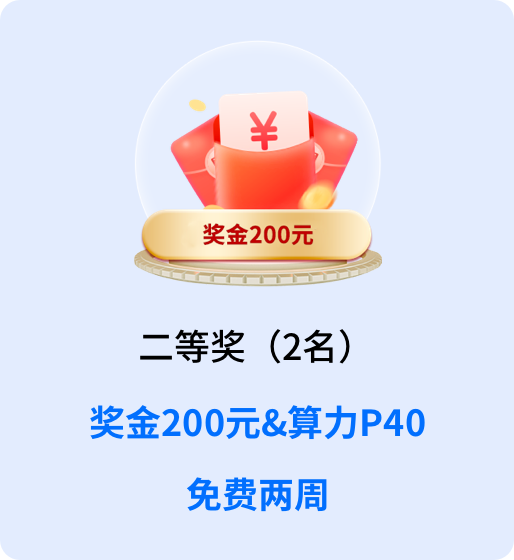
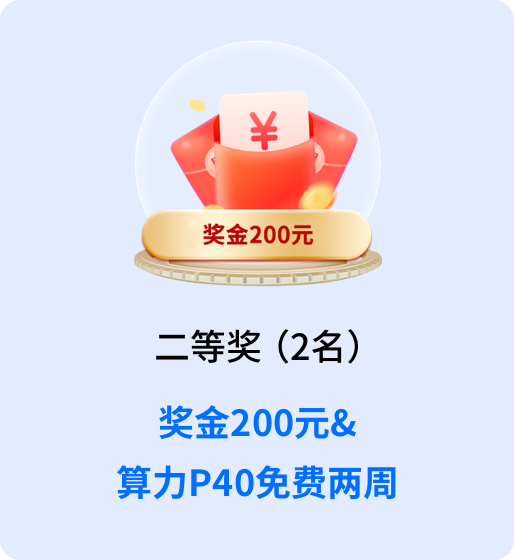
✨ feat: submit code

diff --git a/src/App.vue b/src/App.vue
@@ -122,8 +122,7 @@ const previewVisible = ref(false);
           <div class="introduce-title-mobile sm:block md:hidden">活动介绍</div>
           <div class="introduce-content">
             <div class="introduce-content-paragraph">
-              InsCode是一个集成了在线IDE、在线AI编程、在线大模型训练以及SD
-              模型使用的综合代码开发平台。不论你是初级软件工程师，还是AI大模型爱好者，InsCode都能帮助你快速编写代码，运行项目。甚至在这里你还可以一键购买算力，训练大模型，开发自己的AI应用程序。
+              InsCode是一个集成了在线IDE、在线AI编程、在线算力租赁、在线项目部署以及在线SD 模型使用的综合代码开发平台。不论你是初级软件工程师，还是AI大模型爱好者，InsCode都能帮助你快速编写代码，运行项目。甚至在这里你还可以一键购买算力，训练大模型，开发自己的AI应用程序。
             </div>
             <div class="introduce-content-paragraph">
               现我们真诚地邀请您来参加InsCode试用评测活动，本次试用测评活动主要分为四期，每一期都有丰厚的奖品等你来拿～
@@ -142,7 +141,7 @@ const previewVisible = ref(false);
               <div class="arrange-content-first-title sm:hidden md:flex">
                 <div class="arrange-content-first-title-item">第一期</div>
                 <div class="arrange-content-first-title-item">
-                  在线试用stable diffusion 模型生成优质人物好图
+                  在线试用Stable Diffusion 模型生成优质人物好图
                 </div>
                 <div class="arrange-content-first-title-item">
                   2023-07-03 开始
@@ -150,7 +149,7 @@ const previewVisible = ref(false);
                 <div class="arrange-content-first-title-item">周期14天</div>
               </div>
               <div class="arrange-content-first-title sm:block md:hidden" style="font-size: 14px;padding:10px">
-                 <div>第一期：在线试用 stable diffusion 模型生成优质人物好图</div>
+                 <div>第一期：在线试用 Stable Diffusion 模型生成优质人物好图</div>
                  <div><span style="margin-right:10px">2023-07-03 开始</span><span>周期25天</span></div>
               </div>
               <div
@@ -229,8 +228,8 @@ const previewVisible = ref(false);
               </div>
             </div>
             <div>
-              <div>注：1. 算力资源发放会在评奖后立即开启，不可暂停或累计，获奖的小伙伴请及时到<a class="blue" href="https://inscode.csdn.net/templates">算力页</a>畅玩大模型哦</div>
-              <div style="padding-left: 28px;">2. 每参加一期活动，勋章自动升级，四期全部参加，即可获取InsCode小能手终极勋章</div>
+              <div class="annotation-line">注：1. 算力资源发放会在评奖后立即开启，不可暂停或累计，获奖的小伙伴请及时到<a class="blue" href="https://inscode.csdn.net/@inscode/Stable-Diffusion">算力页</a>畅玩大模型哦</div>
+              <div class="annotation-line">2. 每参加一期活动，勋章自动升级，四期全部参加，即可获取InsCode小能手终极勋章</div>
             </div>
           </div>
         </div>
@@ -243,20 +242,19 @@ const previewVisible = ref(false);
               第一步：选择SD模型试玩
             </div>
             <div class="mb-6 flow-content-title">
-              到InsCode的 <a href="https://inscode.csdn.net/@inscode/Stable-Diffusion">Stable Diffusion模板</a>选择SD模型在线试玩，生成满意的人物图片。如果不会使用模型的，可参考<a href="https://devpress.csdn.net/inscode/6492a77a7846f97eafea48e3.html">《如何使用SD模板生成图片》</a>查看试玩教程 
+              到InsCode的 <a href="https://inscode.csdn.net/@inscode/Stable-Diffusion">Stable Diffusion模板</a>运行及使用 SD 模型，生成满意的人物图片。如果不会使用模型的，可参考<a href="https://devpress.csdn.net/inscode/6492a77a7846f97eafea48e3.html">《如何使用SD模板生成图片》</a><a href="https://devpress.csdn.net/inscode/649aa855187b2e3b840b46b5.html">《如何给SD安装lora》</a>查看试玩教程 
             </div>
             <div class="mb-1 flow-content-step-title">
-              第二步：发布博客
+              第二步：发布博客即刻参与活动
             </div>
             <div class="mb-6 flow-content-title">
-              在CSDN选择对应活动发布博客，要求：
+              活动博客参考案例 <a href="https://blog.csdn.net/2301_76740037/article/details/131332427">《可爱的头像【 InsCode Stable Diffusion 美图活动一期】》</a>， 详细要求：
               <ol class="list-decimal list-inside">
-                <li>博客标题必须包含关键词：“InsCode Stable Diffusion 美图活动一期”（参赛标识，必须引入），标题形式可参考【InsCode Stable Diffusion 美图活动一期-XXXX】"(其中 “XXXXX”为自定义标题名称， 如 “二次元少女”，“森领奇幻钢琴家“等等</li>
-                <li>文章内容必须包含：在线运行地址（统一为<a href="https://inscode.csdn.net/@inscode/Stable-Diffusion">https://inscode.csdn.net/@inscode/Stable-Diffusion</a>）、模型相关版本和参数配置、图片生成提示词和反向提示词、种子和对应的图片</li>
-                <li>发布的必须是InsCode上SD模型产出的人物图片 （最终进入榜单的小伙伴，我们会对生成的图片进行再次核验其生成的真实性 ）</li>
-                <li>提交博客时文章标签需添加： stable diffusion，将生成的图片作为封面图，选择参加的活动 “ Stable Diffusion 美图活动一期”  <span class="cursor-pointer blue" @click="previewVisible = true">点击查看示例</span></li>
+                <li>标题：含有关键词：“InsCode Stable Diffusion 美图活动一期”，可参考【XXXX-InsCode Stable Diffusion 美图活动一期】(其中 “XXXXX”为自定义标题名称， 如 “二次元少女”，“森领奇幻钢琴家“等等</li>
+                <li>正文：必须包含在线运行地址（统一为https://inscode.csdn.net/@inscode/Stable-Diffusion）、模型相关版本和参数配置、图片生成提示词和反向提示词、种子和对应的图片</li>
+                <li>最后：提交博客时文章标签需添加“Stable Diffusion”，将生成的图片作为封面图，选择参加的活动 “ Stable Diffusion 美图活动一期” （一定要选择此活动才可进入活动评选哦~）<span class="cursor-pointer blue" @click="previewVisible = true">点击查看示例</span></li>
               </ol>
-              以上，可参考 <a href="https://blog.csdn.net/2301_76740037/article/details/131332427">《参赛博客案例》</a>
+              备注：发布的必须是InsCode上SD模型产出的人物图片 （最终进入榜单的小伙伴，我们会对生成的图片进行再次核验其生成的真实性 ）
             </div>
             <div class="mb-1 flow-content-step-title">
               第三步：官方评选
@@ -267,7 +265,10 @@ const previewVisible = ref(false);
                 InsCode小助手 
                 <span v-show="QRCodeVisible" class="qr-box-pc">
                   <img class="mb-2" src="./assets/QR_code.png" alt="">
-                  <span class="inline-flex items-center blue"><img src="./assets/robot.png" alt="" class="robot-logo">InsCode小助手</span>
+                  <div class="flex items-center justify-center blue" style="height: 32px;">
+                    <img src="./assets/robot.png" alt="" class="robot-logo">
+                    <div>InsCode小助手</div> 
+                  </div>
                 </span>
               </span>
               <div class="qr-box-mobile" v-show="QRCodeMobileVisible">
@@ -281,59 +282,57 @@ const previewVisible = ref(false);
             </div>
             <div class="mb-3 flow-content-blue">评选规则：</div>
             <div class="mb-3">
-              由评选委员会根据博主产出的参赛贴和SD模型生成的图片质量情况给予打分评选:
+              由CSDN根据博主产出的参赛贴和SD模型生成的图片质量情况给予打分评选:
             </div>
             <div class="indent2f">
-              1.博文传播影响力占比 40%
+              1.博文传播影响力 占比40%
             </div>
             <div class="mb-1 indent4f">
-              <div>a.站外发布该活动博客 20分（比如 掘金、知乎、V2EX、1024Code等开发者社区，每在一个社区发布得5分，满分20分）ps. 博主需要把在其他平台发布的帖子提交在参加活动的博客评论中，以方便工作人员进行积分统计</div>
+              <div>a.站外发布该活动博客 20分（比如 掘金、知乎、V2EX、SegmentFault、OSChina等开发者社区，每在一个社区发布得5分，满分20分）ps. 博主需要把在其他平台发布的帖子提交在参加活动的博客评论中，以方便工作人员进行积分统计</div>
               <div>b.帖子点赞量，1个点赞1分，封顶10分</div>
               <div>c.帖子的评论量，1个评论1分，封顶10分 （除作者本人自己的评论）</div>
             </div>
             <div class="indent2f">
-              2.发布博文内容的质量 30%
+              2.发布博文内容的质量 占比30%
             </div>  
             <div class="mb-1 indent4f">
               <div>是否有详细的模型使用介绍 20分</div>
               <div>是否有对模型的深度使用 10分（比如 使用了Lora，VAE等能力）</div>
             </div>
             <div class="indent2f">
-              3.生成图片的质量和个数 30%
+              3.生成图片的质量和个数 占比30%
             </div>  
-            <div class="mb-3 indent4f">
-              <div>a.图片的美观程度、新颖性、质感、清晰度等等</div>
-              <div>b.生成图片的个数 ，1张图1分， 总分10分封顶</div>
+            <div class="mb-6 indent4f">
+              <div>a.图片的美观程度、新颖性、质感、清晰度等等 20分</div>
+              <div>b.生成图片的个数 ，1张图2分， 总分10分封顶</div>
             </div>
-            <div class="mb-6">备注：图片的美观程度、新颖性、质感、清晰度评选，需要内部邀请1名设计师，4名内部运营人员参与打分，最终取5位的平均分作为 3.a的分数。</div>
             
             <div class="mb-3 flow-content-blue">领奖规则：</div>
-            <div>1、获奖名单会在该评选结束后在该页面公布。</div>
+            <div>1.获奖名单会在评选结果公布日期，即7月21日在该页面公布。</div>
             <div>
-              2、工作人员将在活动结束后的7个工作日内，通过CSDN私信联系中奖用户，进行发奖，请您注意消息通知。
+              2.工作人员将在活动结束后的7个工作日内，通过CSDN私信联系中奖用户，进行发奖，请您注意消息通知（私信联系后1周内未回复则取消奖项视为自动放弃）。
             </div>
             <div class="mb-6">
-              3、除参与奖外，获奖人员，领奖时需实名认证，1
+              3.除参与奖外，获奖人员，领奖时需实名认证，1
               个实名认证用户同一期内仅可领取1份奖项哦～
             </div>
             <div class="mb-3 flow-content-blue">其它说明：</div>
             <div>
               本次活动面向全社会开放，个人、高等院校、科研单位、企业等人员均可报名参加。（如有活动主办方和技术支持单位参加活动，则自动放弃获奖资格。）<br/>
-              若出现以下情况，将视为违规，活动组委会有权取消用户参与资格及获得的奖项。
+              若出现以下情况，将视为违规，CSDN有权取消用户参与资格及获得的奖项，如奖金或相关权益已经发放，CSDN有权要求用户返还奖金并收回相关权益，如给CSDN造成损失的，由用户承担相关责任。
             </div>
-            <div>1、活动报名信息虚假，或不符合活动报名要求的参与者。</div>
-            <div>2、活动参与文章涉嫌抄袭，侵犯他人知识产权等行为。</div>
+            <div>1.活动报名信息虚假，或不符合活动报名要求的参与者。</div>
+            <div>2.活动参与文章涉嫌抄袭，侵犯他人知识产权等行为。</div>
             <div>
-              3、活动参与作品或文章发现或被举报认定存在的其他违法、违规行为。
+              3.活动参与作品或文章发现或被举报认定存在的其他违法、违规行为。
             </div>
-            <div>法律允许范围内的，最终解释权归InsCode所有。</div>
           </div>
         </div>
       </div>
     </div>
     <div class="footer">
-      <div class="mr-6 footer-button"><a href="https://inscode.csdn.net/@inscode/Stable-Diffusion">试玩SD模型</a></div>
-      <div class="footer-button"><a href="https://activity.csdn.net/creatActivity?id=10496">发布测评博客</a></div>
+      <div class="mr-6 footer-button"><a href="https://inscode.csdn.net/@inscode/Stable-Diffusion">第一步：试用SD模型</a></div>
+      <div class="footer-button"><a href="https://activity.csdn.net/creatActivity?id=10496">第二步：发布博客</a></div>
     </div>
   </div>
 </template>
@@ -366,7 +365,7 @@ const previewVisible = ref(false);
     &-content{
       padding: 24px;
       background: #FFFFFF;
-      border-radius: 4px;
+      border-radius: 12px;
       width: @previewBoxWidth;
       height: @previewBoxHeight;
       &-title{
@@ -395,14 +394,14 @@ const previewVisible = ref(false);
       }
       &-footer{
         text-align: right;
-        margin-top: 24px;
+        margin-top: 45px;
         &-button{
           display: inline-block;
           width: @previewBoxButtonW;
           height: @previewBoxButtonH;
           line-height:@previewBoxButtonH;
           background: #0071FF;
-          border-radius: 18px;
+          border-radius: 100px;
           color: white;
           text-align: center;
         }
@@ -421,7 +420,7 @@ const previewVisible = ref(false);
   .border-common {
     background: #ffffff;
     box-shadow: 0px 2px 20px 0px rgba(55, 165, 202, 0.35);
-    border-radius: 32px;
+    border-radius: 24px;
     padding: @borderCommonPadding;
     overflow: visible;
     margin-bottom: @borderCommonMarginBottom;
@@ -432,7 +431,7 @@ const previewVisible = ref(false);
       rgba(181, 231, 254, 1)
     );
     & > div {
-      border-radius: 32px;
+      border-radius: 22px;
       background: #ffffff;
       padding: 40px 10px;
     }
@@ -466,10 +465,10 @@ const previewVisible = ref(false);
     font-size: @font18;
   }
   .indent2f{
-    padding-left: 2*@fontSize;
+    // padding-left: 2*@fontSize;
   }
   .indent4f{
-    padding-left: 4*@fontSize;
+    // padding-left: 4*@fontSize;
   }
 
   .advertise-container {
@@ -504,20 +503,23 @@ const previewVisible = ref(false);
         z-index: 99;
         right: 234px;
         top: 420px;
-        border-radius: 20px;
+        border-radius: 14px;
         &-content {
-          border-radius: 22px;
+          border-radius: 14px;
           padding: 10px 0;
           & > div {
             border-bottom: 1px solid #e3e3e3;
             padding: 10px;
-            &.active {
+            &>a{
+              color: #999999;
+            }
+            &.active>a{
               .blue;
             }
             &:last-child {
               border: none;
             }
-            &:hover {
+            & > a:hover {
               .blue;
             }
           }
@@ -546,9 +548,14 @@ const previewVisible = ref(false);
           &:last-child {
             border: none;
           }
+          a>{
+            color: rgba(0, 0, 0, 0.5);
+          }
         }
-        .active {
-          .blue;
+        .active{
+          &>a{
+            .blue;
+          }
           background: rgba(255, 255, 255, 0.6);
         }
       }
@@ -589,7 +596,7 @@ const previewVisible = ref(false);
             &-title {
               background-color: rgba(119, 161, 247, 0.3);
               border-radius: 10px;
-              padding: 5px 20px;
+              padding: 10px 20px;
               font-size: @font22;
               font-family: SourceHanSansCN-Medium, SourceHanSansCN;
               font-weight: 500;
@@ -674,6 +681,7 @@ const previewVisible = ref(false);
           height: 32px !important;
           display: inline-block;
           margin-right: 2px;
+          transform: translate(0,-3px);
         }
         .qr-box-mobile{
           position:fixed;
@@ -691,10 +699,6 @@ const previewVisible = ref(false);
             height: 302px;
             background: #FFFFFF;
             border-radius: 12px;
-            display: flex;
-            flex-wrap: wrap;
-            justify-content: center;
-            align-items: center;
             &-title{
               font-size: 18px;
               font-family: PingFangSC-Medium, PingFang SC;
@@ -702,10 +706,14 @@ const previewVisible = ref(false);
               color: #2774E9;
               width:100%;
               text-align: center;
+              margin-top: 24px;
+              margin-bottom: 22px;
             }
-            img{
+            >img{
               width: 140px;
               height: 140px;
+              margin: 0 auto;
+              margin-bottom: 24px;
             }
             &-button{
               width: 232px;
@@ -716,6 +724,7 @@ const previewVisible = ref(false);
               color:white;
               font-size:16px;
               text-align:center;
+              margin: 0 auto;
             }
           }
         }
@@ -730,7 +739,7 @@ const previewVisible = ref(false);
             color: #000000;
           }
           &-title {
-            font-family: SourceHanSansCN-Medium, SourceHanSansCN;
+            font-family: SourceHanSansCN-Normal, SourceHanSansCN;
             font-weight: 500;
           }
           &-blue {
@@ -772,6 +781,9 @@ const previewVisible = ref(false);
           width: 100%;
           height: 100%;
         }
+        &:last-child{
+          margin-right: 0 !important;
+        }
       }
     }
   }
@@ -803,6 +815,9 @@ const previewVisible = ref(false);
   @previewBoxButtonW:96px;
   @previewBoxButtonH:32px;
   .containermixin(@fontSize,@font18,@font19,@font20,@font22,@introduceW,@titleCommonFontSize,@footerButtonSize,@footerButtonWidth,@footerButtonHeight,@footerButtonSpace,@footerHeight,@titleCommonRadius,@borderCommonMarginBottom,@borderCommonPadding,@firstContentPadding,@customGap,@boxCommonPadding,@titleCommonWidth,@titleCommonHeight,@previewBoxWidth,@previewBoxHeight,@previewBoxButtonW,@previewBoxButtonH);
+  .advertise-container .content .setting .annotation-line:last-child{
+    padding-left: 28px;
+  }
 }
 @media screen and (max-width: 1200px) {
   @fontSize:14px; //基本字体大小
@@ -813,7 +828,7 @@ const previewVisible = ref(false);
   @introduceW:220px; //活动结束宽度
   @titleCommonFontSize:20px; //浮层标题字体大小
   @footerButtonSize:16px;
-  @footerButtonWidth:140px;
+  @footerButtonWidth:162px;
   @footerButtonHeight:40px;
   @footerButtonSpace:24px;
   @footerHeight:64px;
@@ -832,6 +847,12 @@ const previewVisible = ref(false);
   .containermixin(@fontSize,@font18,@font19,@font20,@font22,@introduceW,@titleCommonFontSize,@footerButtonSize,@footerButtonWidth,@footerButtonHeight,@footerButtonSpace,@footerHeight,@titleCommonRadius,@borderCommonMarginBottom,@borderCommonPadding,@firstContentPadding,@customGap,@boxCommonPadding,@titleCommonWidth,@titleCommonHeight,@previewBoxWidth,@previewBoxHeight,@previewBoxButtonW,@previewBoxButtonH);
   .advertise-container .content .arrange{
     padding:40px 10px;
+  }
+  .advertise-container .content .introduce{
+    padding-bottom: 20px;
+  }
+  .advertise-container .content .setting .annotation-line:last-child{
+    padding-left: 0px;
   }
 }
 

diff --git a/index.html b/index.html
@@ -4,9 +4,10 @@
     <meta charset="UTF-8" />
     <link rel="icon" type="image/svg+xml" href="/vite.svg" />
     <meta name="viewport" content="width=device-width, initial-scale=1.0" />
+    <meta id="spmMeta" name="report" content='{"pid":"inscode-advertise.inscode.cc","spm":"1058.2607"}'>
     <script src="https://g.csdnimg.cn/??lib/jquery/1.12.4/jquery.min.js"></script>
     <script src="https://g.csdnimg.cn/common/csdn-report/report.js"></script>
-    <title>Inscode测评活动</title>
+    <title> InsCode试用活动</title>
   </head>
   <body>
     <div id="app"></div>
